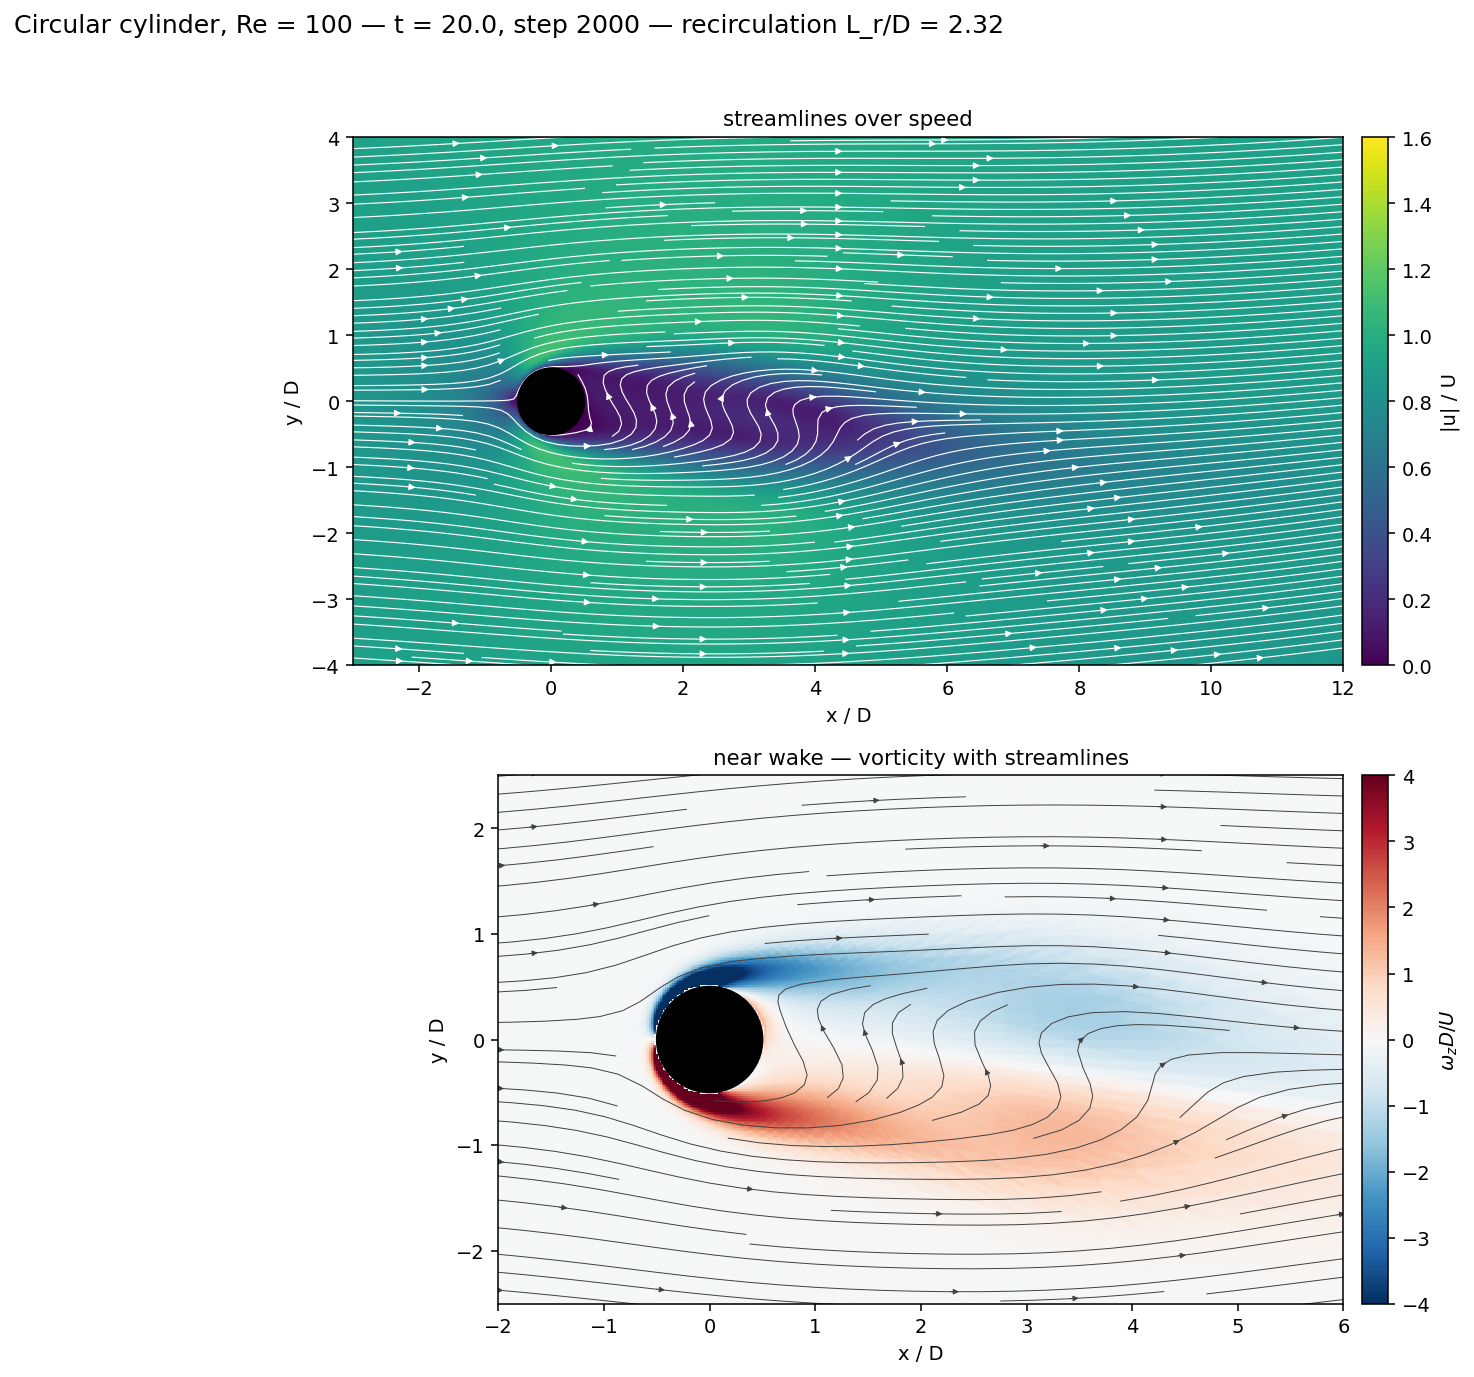
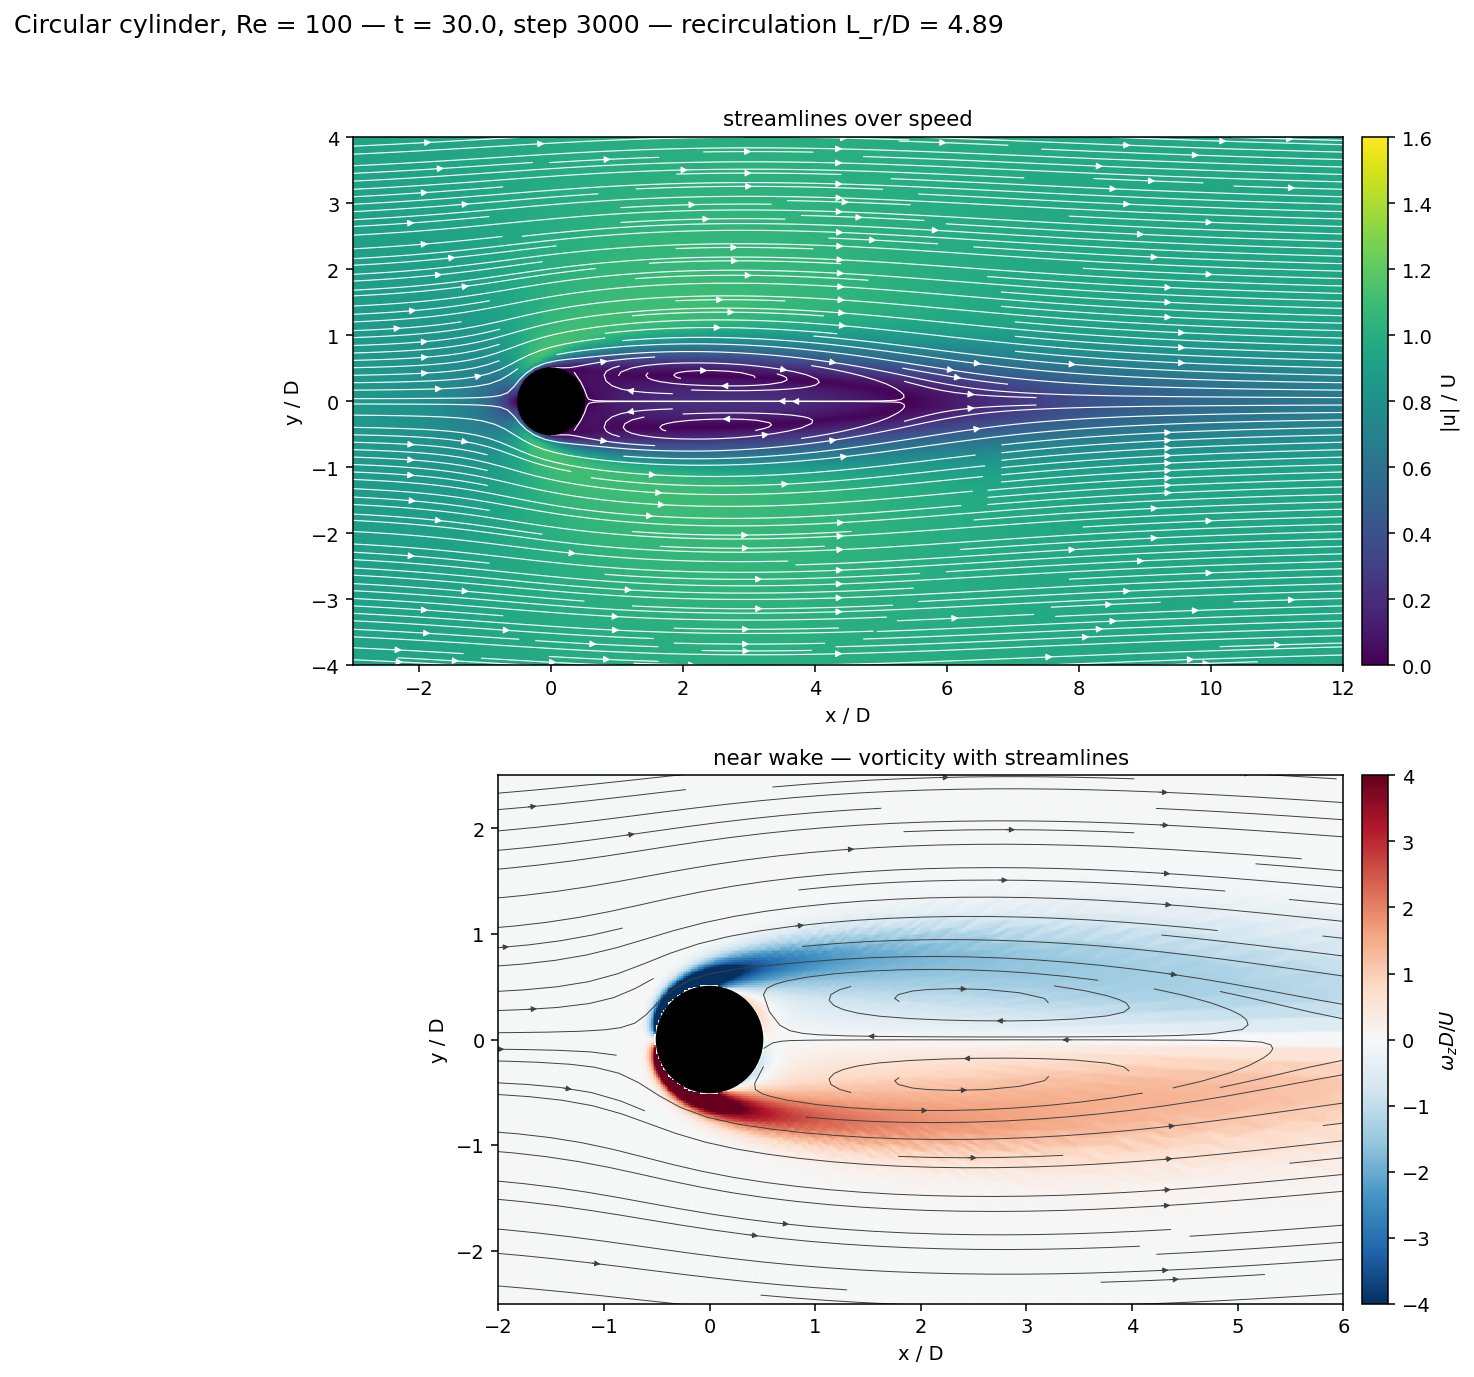
Far-field view for the cylinder, and size the canvas from the domain
The figure size was fixed at 15x11, which fits the square cylinder's 2:1 domain
and left the cylinder's 1:1 domain floating in half a page of white with both
panels squeezed into the right-hand third. The canvas now follows the extent.

cyl_Re100 at t = 30, still settling, no kick yet:

  Streamlines are straight and parallel across the whole far field, with no
  bending toward the flanks. That is the outflow-arc fix visible rather than
  measured -- the leaking version pulled 77% of its mass out through the sides.

  The wake is a straight symmetric deficit, which is what a base flow should be.
  L_r/D = 4.89 and still growing. Worth stating because it looks wrong next to
  the 0.9 D usually quoted: that figure is the MEAN bubble of the shedding
  state, while the unstable STEADY solution has a much longer one, growing
  roughly as 0.05 Re, so 4-5 D at Re = 100.

  Beyond r ~ 12 the vorticity panel shows triangular wedges. Those are the
  plot, not the flow: the outer cells reach dr = 2.18 D while the raster is
  0.055 D per pixel, so what is drawn there is the interpolation's triangles.
  The lambda/20 line at x = 12.3 D marks where the mesh stops being able to
  carry a shedding wavelength in any case.

Changed region(s): [[0.2185, 0.0937, 0.9362, 0.5309], [0.3433, 0.5621, 0.9362, 0.9368], [0.6554, 0.0, 0.6866, 0.0312]]

diff --git a/plot_utility/plot_farfield.py b/plot_utility/plot_farfield.py
@@ -100,7 +100,12 @@ def main(tag="sqcyl_v3", nz=4):
     wz = np.gradient(gv, gx, axis=1) - np.gradient(gu, gy, axis=0)
     lim = float(np.nanpercentile(np.abs(wz), 99.0))
 
-    fig, axes = plt.subplots(2, 1, figsize=(15, 11))
+    # THE FIGURE MUST FOLLOW THE DOMAIN. Both panels are aspect-equal, so a fixed figure size
+    # fits the square cylinder's 2:1 domain and leaves the cylinder's 1:1 domain floating in
+    # half a page of white. Size the canvas from the extent instead.
+    pw = 13.0
+    ph = pw * (YT - YB) / (XR - XL)
+    fig, axes = plt.subplots(2, 1, figsize=(pw + 1.6, 2 * ph + 1.4))
 
     ax = axes[0]
     im = ax.pcolormesh(GX, GY, spd, cmap="viridis", shading="auto", vmin=0, vmax=1.4)
